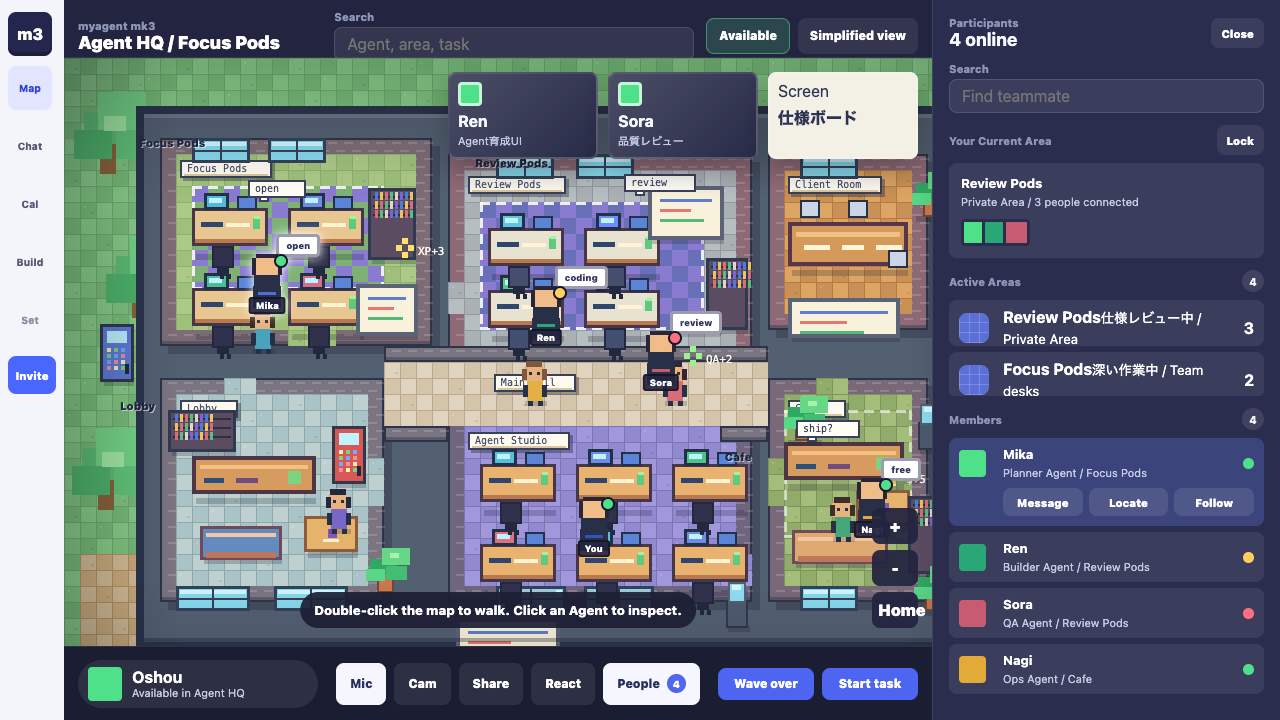
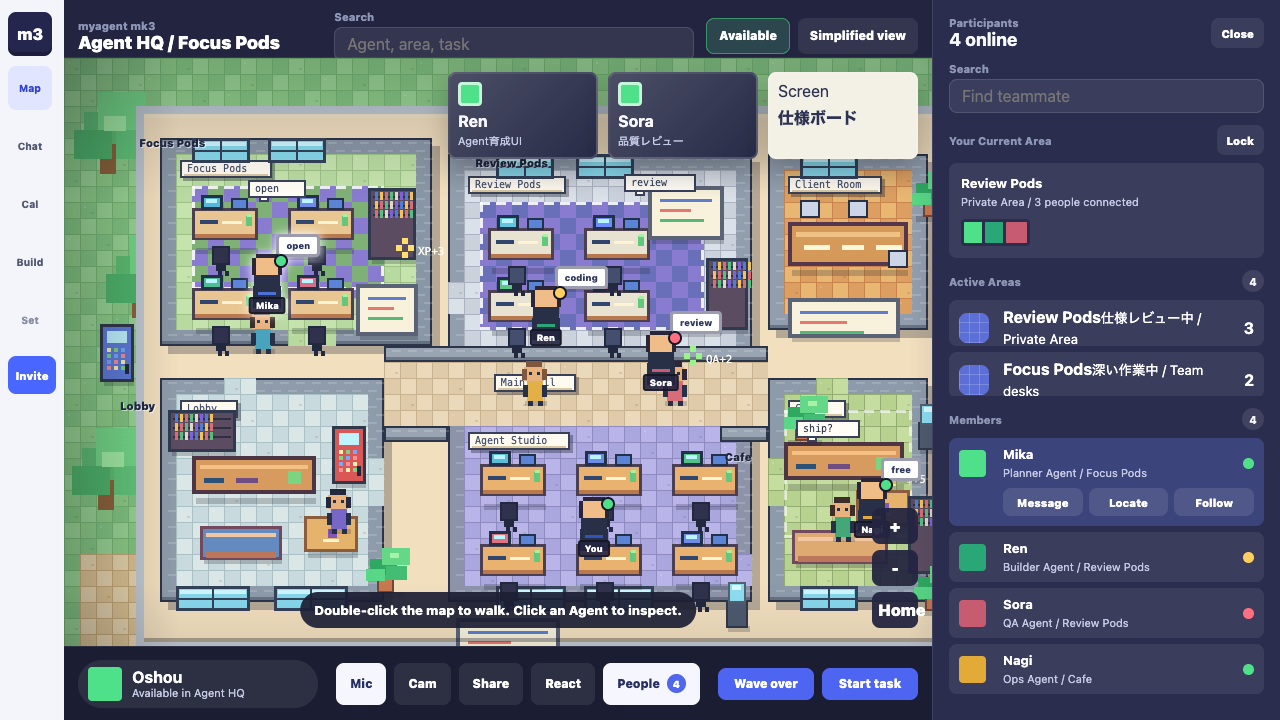
Tune Gather-like office map

Changed region(s): [[0.0938, 0.1222, 0.75, 0.9167], [0.6875, 0.7333, 0.7188, 0.7639]]

diff --git a/script.js b/script.js
@@ -158,23 +158,23 @@ function drawPixelMap() {
   const shadow = (x, y, width, height) => solid(x + 4, y + height - 2, width - 4, 6, "rgba(22, 25, 39, .22)");
 
   const desk = (x, y, color = "#e6c18a", screen = "#49b7d7") => {
-    shadow(x, y, 76, 48);
-    rect(x, y, 76, 38, color, "#473648", 3);
-    solid(x + 3, y + 31, 70, 4, "#b8794f");
-    rect(x + 12, y - 15, 25, 17, screen, "#223048", 3);
-    solid(x + 17, y - 10, 13, 5, "#b9f4ff");
-    rect(x + 45, y - 12, 20, 14, "#5b84d7", "#223048", 2);
-    solid(x + 9, y + 14, 22, 5, "#30466f");
-    solid(x + 34, y + 15, 24, 4, "#fff3d3");
-    solid(x + 61, y + 10, 7, 11, "#61c97b");
-    solid(x + 62, y + 8, 6, 3, "#a4f2a4");
+    shadow(x, y, 66, 42);
+    rect(x, y, 66, 32, color, "#4c4050", 3);
+    solid(x + 3, y + 26, 60, 4, "#b8794f");
+    rect(x + 9, y - 13, 22, 15, screen, "#223048", 3);
+    solid(x + 14, y - 9, 11, 4, "#b9f4ff");
+    rect(x + 39, y - 10, 17, 12, "#5b84d7", "#223048", 2);
+    solid(x + 8, y + 12, 18, 4, "#30466f");
+    solid(x + 30, y + 13, 20, 3, "#fff3d3");
+    solid(x + 54, y + 8, 6, 10, "#61c97b");
+    solid(x + 55, y + 6, 5, 3, "#a4f2a4");
   };
 
   const officeChair = (x, y, color = "#30324d") => {
-    rect(x, y, 22, 22, color, "#22283d", 2);
-    solid(x + 5, y + 20, 12, 8, "#22283d");
-    solid(x + 8, y + 28, 4, 5, "#22283d");
-    solid(x + 15, y + 28, 4, 5, "#22283d");
+    rect(x, y, 18, 19, color, "#22283d", 2);
+    solid(x + 4, y + 18, 10, 7, "#22283d");
+    solid(x + 6, y + 25, 4, 5, "#22283d");
+    solid(x + 13, y + 25, 4, 5, "#22283d");
   };
 
   const plant = (x, y) => {
@@ -315,9 +315,9 @@ function drawPixelMap() {
     ctx.fillText(text, x + 22, y + 17);
   };
 
-  tileFloor(0, 0, 60, 40, ["#82c981", "#78bf78", "#8bd18a"], "#74ad70");
-  tileFloor(16, 496, 16, 8, ["#d8c099", "#cfae7d"], "#b89363");
-  tileFloor(848, 80, 7, 28, ["#d8c099", "#cfae7d"], "#b89363");
+  tileFloor(0, 0, 60, 40, ["#8fce88", "#84c782", "#9bd795"], "#77b873");
+  tileFloor(16, 496, 16, 8, ["#e8d5ad", "#dcc292"], "#c6a976");
+  tileFloor(848, 80, 7, 28, ["#e8d5ad", "#dcc292"], "#c6a976");
   tree(10, 34);
   tree(42, 178);
   tree(8, 370);
@@ -325,20 +325,20 @@ function drawPixelMap() {
   tree(876, 436);
   vending(36, 266, "#5e7bd9");
 
-  solid(72, 48, 832, 544, "#29334a");
-  solid(80, 56, 816, 528, "#536071");
+  solid(72, 48, 832, 544, "#bfc8d2");
+  solid(80, 56, 816, 528, "#f2dfbe");
 
-  room({ name: "Focus Pods", x: 96, y: 80, cols: 17, rows: 13, floor: ["#9ec07a", "#acc987"], grout: "#8fb06f", wall: "#7d6c75", labelWidth: 92, doors: [{ side: "bottom", at: 8, span: 3 }] });
-  room({ name: "Lobby", x: 96, y: 320, cols: 14, rows: 14, floor: ["#aac3c7", "#bfd0d0"], grout: "#8ea8ac", wall: "#7a7581", labelWidth: 58, doors: [{ side: "right", at: 5, span: 3 }, { side: "top", at: 4, span: 2 }] });
-  room({ name: "Review Pods", x: 384, y: 96, cols: 19, rows: 15, floor: ["#aab0b4", "#b7bec2"], grout: "#909aa2", wall: "#8e6a77", labelWidth: 98, doors: [{ side: "bottom", at: 7, span: 3 }, { side: "left", at: 8, span: 2 }] });
-  room({ name: "Client Room", x: 704, y: 96, cols: 10, rows: 11, floor: ["#dca564", "#c99155"], grout: "#b77a45", wall: "#8e6a77", labelWidth: 94, doors: [{ side: "bottom", at: 3, span: 3 }] });
-  room({ name: "Agent Studio", x: 384, y: 352, cols: 19, rows: 12, floor: ["#928ad0", "#a097dc"], grout: "#7b76ad", wall: "#6f657f", labelWidth: 102, doors: [{ side: "top", at: 5, span: 3 }, { side: "right", at: 9, span: 2 }] });
-  room({ name: "Cafe", x: 704, y: 320, cols: 10, rows: 14, floor: ["#91ab6b", "#a4bd7a"], grout: "#7c955a", wall: "#796978", labelWidth: 58, doors: [{ side: "left", at: 5, span: 3 }, { side: "top", at: 3, span: 2 }] });
+  room({ name: "Focus Pods", x: 96, y: 80, cols: 17, rows: 13, floor: ["#b8daa0", "#c5e3ad"], grout: "#9ec286", wall: "#8996a5", labelWidth: 92, doors: [{ side: "bottom", at: 8, span: 3 }] });
+  room({ name: "Lobby", x: 96, y: 320, cols: 14, rows: 14, floor: ["#c8dadd", "#dbe7e6"], grout: "#a9c0c4", wall: "#8e9baa", labelWidth: 58, doors: [{ side: "right", at: 5, span: 3 }, { side: "top", at: 4, span: 2 }] });
+  room({ name: "Review Pods", x: 384, y: 96, cols: 19, rows: 15, floor: ["#cbd2dc", "#dbe1e8"], grout: "#aab3c0", wall: "#929eae", labelWidth: 98, doors: [{ side: "bottom", at: 7, span: 3 }, { side: "left", at: 8, span: 2 }] });
+  room({ name: "Client Room", x: 704, y: 96, cols: 10, rows: 11, floor: ["#e8b772", "#dc9f61"], grout: "#c8844c", wall: "#929eae", labelWidth: 94, doors: [{ side: "bottom", at: 3, span: 3 }] });
+  room({ name: "Agent Studio", x: 384, y: 352, cols: 19, rows: 12, floor: ["#aaa6de", "#bab5e9"], grout: "#8f8ac0", wall: "#8d94aa", labelWidth: 102, doors: [{ side: "top", at: 5, span: 3 }, { side: "right", at: 9, span: 2 }] });
+  room({ name: "Cafe", x: 704, y: 320, cols: 10, rows: 14, floor: ["#b7d28e", "#c6dda0"], grout: "#94ad73", wall: "#8d9aaa", labelWidth: 58, doors: [{ side: "left", at: 5, span: 3 }, { side: "top", at: 3, span: 2 }] });
 
-  tileFloor(320, 304, 24, 4, ["#e0d3bf", "#d5c4ac"], "#bca98d");
-  brickWall(320, 288, 384, 16, "#7a7581");
-  brickWall(320, 368, 64, 16, "#7a7581");
-  brickWall(656, 368, 48, 16, "#7a7581");
+  tileFloor(320, 304, 24, 4, ["#ead9ba", "#dfcba9"], "#c8b28f");
+  brickWall(320, 288, 384, 16, "#9aa5b3");
+  brickWall(320, 368, 64, 16, "#9aa5b3");
+  brickWall(656, 368, 48, 16, "#9aa5b3");
   label("Main Hall", 430, 316, 82);
 
   windowBlock(128, 80, 58);

diff --git a/docs/gather-quality-review.md b/docs/gather-quality-review.md
@@ -14,6 +14,7 @@ Date: 2026-07-18
 
 - Pixel art office map: rebuilt around a 16px-grid low-resolution canvas with `image-rendering: pixelated`.
 - Spatial density: includes outdoor strip, trees, meeting rooms, focus pods, product team desks, cafe, lobby, studio, water coolers, bookshelves, vending machines, plants, windows, whiteboards, walls, labels, speech bubbles, and small progress popups.
+- Gather visual correction pass: brightened the hallways and room floors, softened the heavy wall colors, and reduced desk/chair scale so the office reads closer to Gather's airy map view.
 - Avatar readability: DOM avatars are the single interactive source for named Agents; background NPCs are non-interactive flavor only.
 - Gather-style UI shell: left rail, top room/search/status bar, compact video tiles, bottom call controls, right Participants Panel, and mobile Participants sheet.
 - Core interactions: People panel open/close, Message, Locate, Follow, double-click walk target, Build/Studio toggle, Simplified View, status toggle, chat send.
@@ -29,6 +30,7 @@ Date: 2026-07-18
 
 - This is still an original mock, not Gather's proprietary asset set. It does not copy Gather sprites, object library, logo, or exact screenshots.
 - Gather's official pixel assets still have more polished sprite animation, object variety, and per-tile collision semantics than this static prototype.
+- Remaining largest gap: mk3 still lacks a real sprite atlas, walk-cycle animation, and a map editor/object library equivalent to Gather Studio.
 - This version is acceptable as a stronger high-fidelity direction mock. It is not a production-quality Gather clone.
 
 ## Completion threshold used